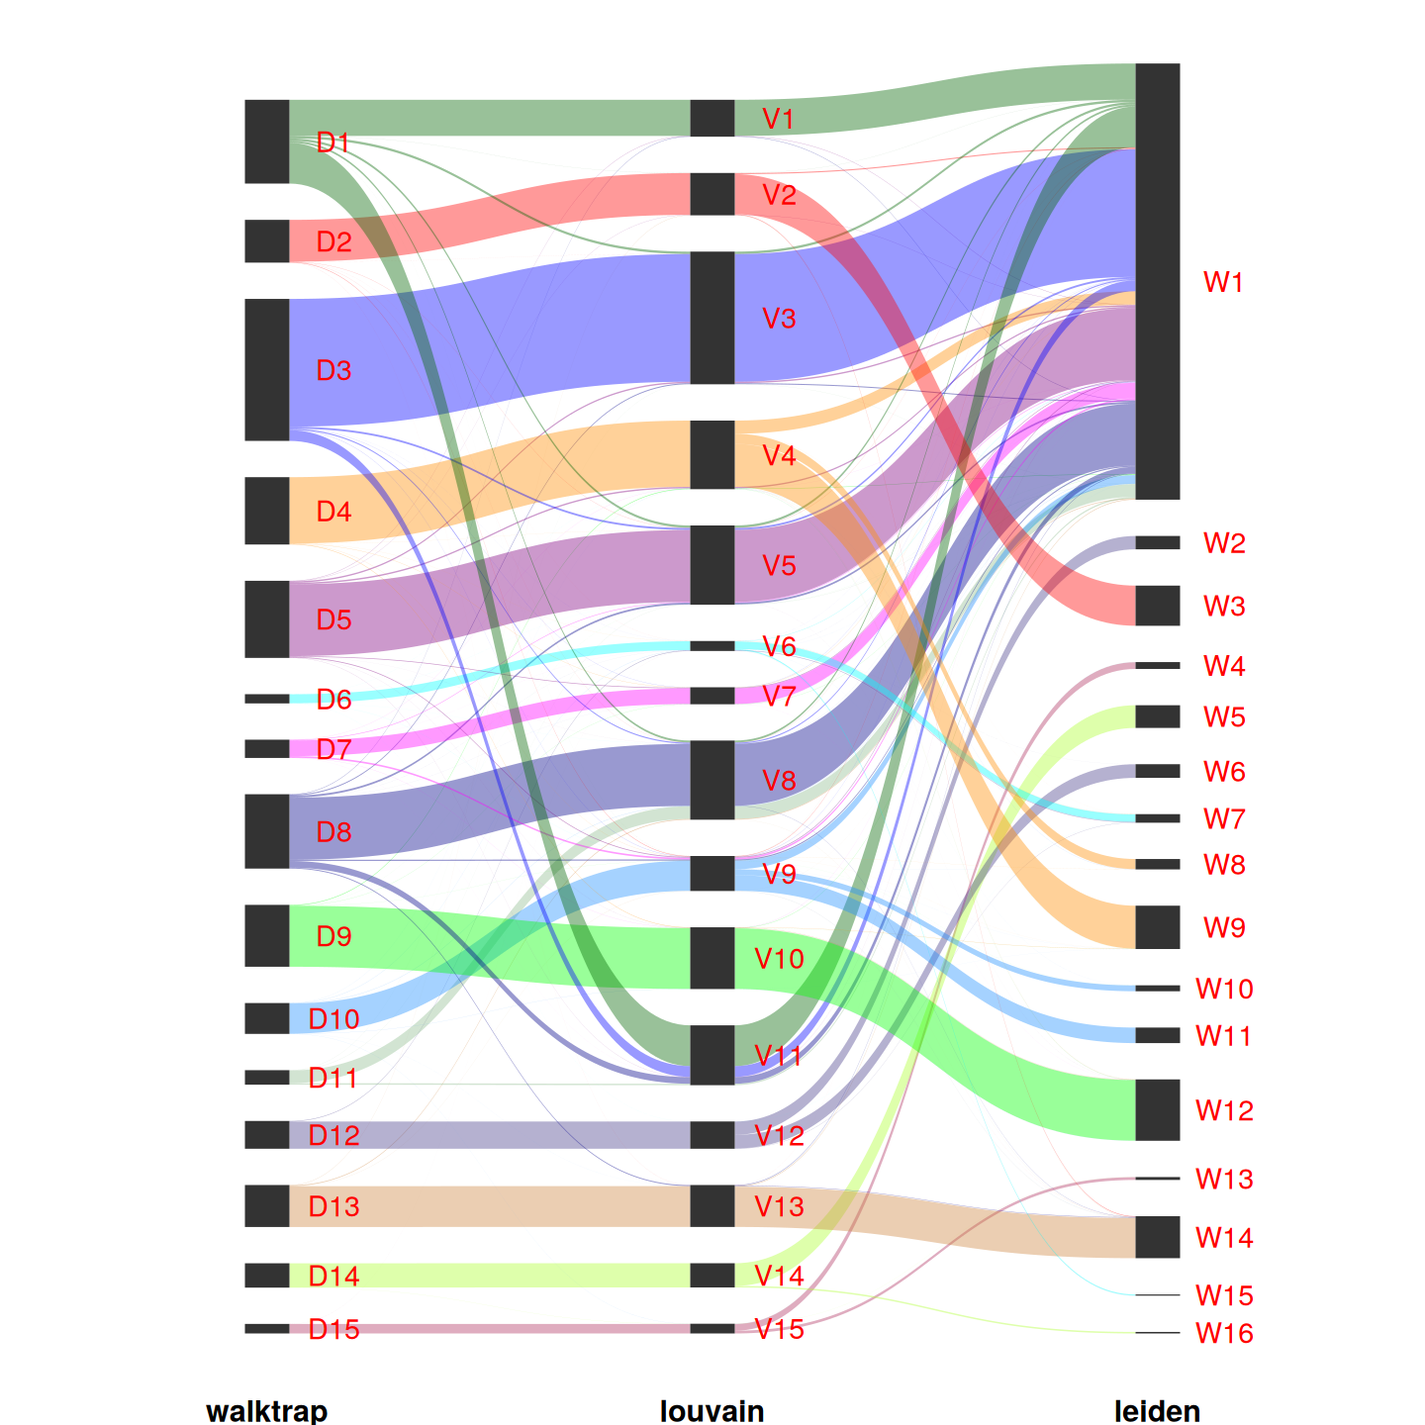
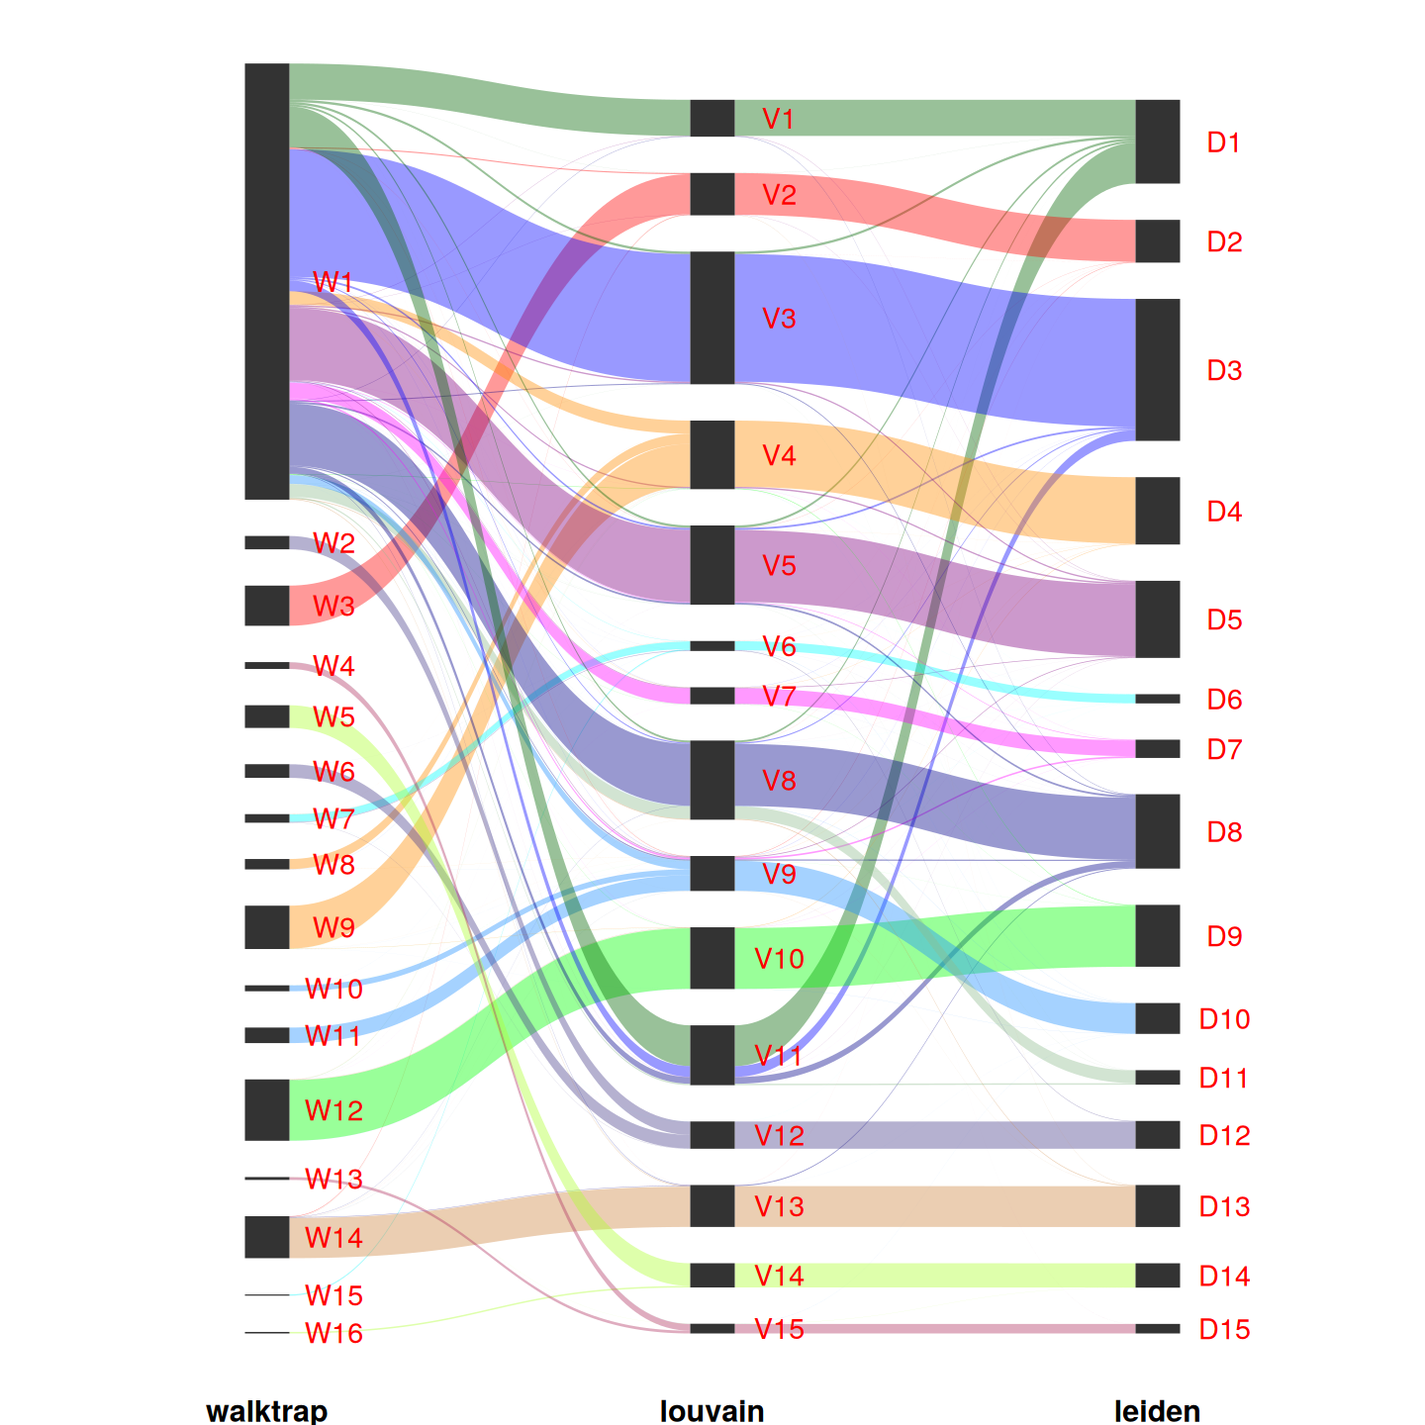
Fix labels in parallel sets and heading anchors incompatibility round brackets

diff --git a/notebooks/160k_Human_Control1_PBMC/Control1.md b/notebooks/160k_Human_Control1_PBMC/Control1.md
@@ -7,7 +7,7 @@
 3. [Quality filtering of cells](#3---Quality-filtering-of-cells)
 4. [Classification of cell cycle phase](#4---Classification-of-cell-cycle-phase)
 5. [Expression normalization](#5---Expression-normalization)
-6. [Feature (HVGs) selection](#6---Feature-(HVGs)-selection)
+6. [Feature selection](#6---Feature-selection)
 7. [Dimensionality reduction using HVG](#7---Dimensionality-reduction-using-HVG)
 8. [Cell type annotation](#8---Cell-type-annotation)
 9. [Cell clustering](#9---Cell-clustering)
@@ -1844,7 +1844,7 @@ Create a `dgCMatrix` logcounts matrix for faster computation in some steps.
 annot_l <- as(logcounts(cdScAnnot, withDimnames = TRUE), "dgCMatrix")
 ```
 
-# 6 - Feature (HVGs) selection
+# 6 - Feature selection
 
 We often use scRNA-seq data in exploratory analyses to characterize heterogeneity across cells. Procedures like clustering and dimensionality reduction compare cells based on their gene expression profiles. We want to select genes that contain useful information about the biology of the system while removing genes that contain random noise. 
 
@@ -3288,8 +3288,7 @@ tab <- table(walktrap = paste0("W", cdScAnnot$walktrap),
              leiden = paste0("D", cdScAnnot$leiden))
 
 tab <- gather_set_data(as.data.frame(tab), 1:3)
-tab$x <- as.factor(tab$x)
-levels(tab$x) <- c("walktrap","louvain","leiden")
+tab$x <- factor(tab$x, levels = c("walktrap","louvain","leiden"))
 
 tab$walktrap <- factor(tab$walktrap, levels = gtools::mixedsort(levels(tab$walktrap)))
 tab$louvain <- factor(tab$louvain, levels = gtools::mixedsort(levels(tab$louvain)))
@@ -4203,7 +4202,7 @@ print(paste("Number of available databases from Enrichr:", nrow(dbs)))
 #head(dbs)
 ```
 
-    [1] "Number of available databases from Enrichr: 216"
+    [1] "Number of available databases from Enrichr: 218"
 
 
 Change `dbsSel` to remove or include more gene-set libraries in the enrichment analysis.
@@ -4832,7 +4831,7 @@ sessionInfo()
     other attached packages:
      [1] ensembldb_2.30.0            AnnotationFilter_1.30.0     GenomicFeatures_1.58.0     
      [4] AnnotationDbi_1.68.0        lubridate_1.9.4             forcats_1.0.0              
-     [7] stringr_1.5.1               dplyr_1.1.4                 purrr_1.0.4                
+     [7] stringr_1.5.1               dplyr_1.1.4                 purrr_1.1.0                
     [10] readr_2.1.5                 tidyr_1.3.1                 tibble_3.3.0               
     [13] tidyverse_2.0.0             scRUtils_0.3.8              viridis_0.6.5              
     [16] viridisLite_0.4.2           SingleR_2.8.0               scran_1.34.0               
@@ -4841,7 +4840,7 @@ sessionInfo()
     [25] DropletUtils_1.26.0         SingleCellExperiment_1.28.1 SummarizedExperiment_1.36.0
     [28] Biobase_2.66.0              GenomicRanges_1.58.0        GenomeInfoDb_1.42.3        
     [31] IRanges_2.40.1              S4Vectors_0.44.0            MatrixGenerics_1.18.1      
-    [34] matrixStats_1.5.0           cowplot_1.1.3               bluster_1.16.0             
+    [34] matrixStats_1.5.0           cowplot_1.2.0               bluster_1.16.0             
     [37] BiocParallel_1.40.2         BiocNeighbors_2.0.1         AnnotationHub_3.14.0       
     [40] BiocFileCache_2.14.0        dbplyr_2.5.0                BiocGenerics_0.52.0        
     [43] kableExtra_1.4.0           
@@ -4849,7 +4848,7 @@ sessionInfo()
     loaded via a namespace (and not attached):
       [1] RcppAnnoy_0.0.22          BiocIO_1.16.0             pbdZMQ_0.3-14             bitops_1.0-9             
       [5] filelock_1.0.3            R.oo_1.27.1               polyclip_1.10-7           XML_3.99-0.18            
-      [9] httr2_1.1.2               lifecycle_1.0.4           scDblFinder_1.20.2        edgeR_4.4.2              
+      [9] httr2_1.2.1               lifecycle_1.0.4           scDblFinder_1.20.2        edgeR_4.4.2              
      [13] doParallel_1.0.17         lattice_0.22-7            MASS_7.3-65               alabaster.base_1.6.1     
      [17] magrittr_2.0.3            limma_3.62.2              rmarkdown_2.29            yaml_2.3.10              
      [21] metapod_1.14.0            DBI_1.2.3                 RColorBrewer_1.1-3        abind_1.4-8              
@@ -4861,21 +4860,21 @@ sessionInfo()
      [45] UCSC.utils_1.2.0          farver_2.1.2              ScaledMatrix_1.14.0       base64enc_0.1-3          
      [49] GenomicAlignments_1.42.0  jsonlite_2.0.0            GetoptLong_1.0.5          iterators_1.0.14         
      [53] systemfonts_1.2.3         foreach_1.5.2             tools_4.4.3               ggnewscale_0.5.2         
-     [57] ragg_1.4.0                Rcpp_1.0.14               glue_1.8.0                gridExtra_2.3            
+     [57] ragg_1.4.0                Rcpp_1.1.0                glue_1.8.0                gridExtra_2.3            
      [61] SparseArray_1.6.2         xfun_0.52                 IRdisplay_1.1             gypsum_1.2.0             
      [65] HDF5Array_1.34.0          withr_3.0.2               BiocManager_1.30.26       fastmap_1.2.0            
      [69] rhdf5filters_1.18.1       digest_0.6.37             rsvd_1.0.5                timechange_0.3.0         
      [73] R6_2.6.1                  mime_0.13                 textshaping_1.0.1         colorspace_2.1-1         
-     [77] Cairo_1.6-2               gtools_3.9.5              dichromat_2.0-0.1         RSQLite_2.4.1            
+     [77] Cairo_1.6-2               gtools_3.9.5              dichromat_2.0-0.1         RSQLite_2.4.2            
      [81] R.methodsS3_1.8.2         celldex_1.16.0            utf8_1.2.6                generics_0.1.4           
-     [85] data.table_1.17.6         rtracklayer_1.66.0        httr_1.4.7                S4Arrays_1.6.0           
+     [85] data.table_1.17.8         rtracklayer_1.66.0        httr_1.4.7                S4Arrays_1.6.0           
      [89] uwot_0.2.3                pkgconfig_2.0.3           gtable_0.3.6              blob_1.2.4               
      [93] ComplexHeatmap_2.22.0     XVector_0.46.0            htmltools_0.5.8.1         ProtGenerics_1.38.0      
      [97] clue_0.3-66               alabaster.matrix_1.6.1    png_0.1-8                 knitr_1.50               
     [101] rstudioapi_0.17.1         tzdb_0.5.0                rjson_0.2.23              uuid_1.2-1               
     [105] curl_6.4.0                repr_1.1.7                cachem_1.1.0              rhdf5_2.50.2             
     [109] GlobalOptions_0.1.2       BiocVersion_3.20.0        parallel_4.4.3            vipor_0.4.7              
-    [113] restfulr_0.0.15           alabaster.schemas_1.6.0   pillar_1.10.2             vctrs_0.6.5              
+    [113] restfulr_0.0.16           alabaster.schemas_1.6.0   pillar_1.11.0             vctrs_0.6.5              
     [117] BiocSingular_1.22.0       beachmat_2.22.0           cluster_2.1.8.1           beeswarm_0.4.0           
     [121] evaluate_1.0.4            Rsamtools_2.22.0          cli_3.6.5                 locfit_1.5-9.12          
     [125] compiler_4.4.3            rlang_1.1.6               crayon_1.5.3              labeling_0.4.3           

diff --git a/notebooks/160k_Human_Kidney_Cancer_PBMC/Kidney_Cancer.md b/notebooks/160k_Human_Kidney_Cancer_PBMC/Kidney_Cancer.md
@@ -7,7 +7,7 @@
 3. [Quality filtering of cells](#3---Quality-filtering-of-cells)
 4. [Classification of cell cycle phase](#4---Classification-of-cell-cycle-phase)
 5. [Expression normalization](#5---Expression-normalization)
-6. [Feature (HVGs) selection](#6---Feature-(HVGs)-selection)
+6. [Feature selection](#6---Feature-selection)
 7. [Dimensionality reduction using HVG](#7---Dimensionality-reduction-using-HVG)
 8. [Cell type annotation](#8---Cell-type-annotation)
 9. [Cell clustering](#9---Cell-clustering)
@@ -1844,7 +1844,7 @@ Create a `dgCMatrix` logcounts matrix for faster computation in some steps.
 annot_l <- as(logcounts(cdScAnnot, withDimnames = TRUE), "dgCMatrix")
 ```
 
-# 6 - Feature (HVGs) selection
+# 6 - Feature selection
 
 We often use scRNA-seq data in exploratory analyses to characterize heterogeneity across cells. Procedures like clustering and dimensionality reduction compare cells based on their gene expression profiles. We want to select genes that contain useful information about the biology of the system while removing genes that contain random noise. 
 
@@ -3285,8 +3285,7 @@ tab <- table(walktrap = paste0("W", cdScAnnot$walktrap),
              leiden = paste0("D", cdScAnnot$leiden))
 
 tab <- gather_set_data(as.data.frame(tab), 1:3)
-tab$x <- as.factor(tab$x)
-levels(tab$x) <- c("walktrap","louvain","leiden")
+tab$x <- factor(tab$x, levels = c("walktrap","louvain","leiden"))
 
 tab$walktrap <- factor(tab$walktrap, levels = gtools::mixedsort(levels(tab$walktrap)))
 tab$louvain <- factor(tab$louvain, levels = gtools::mixedsort(levels(tab$louvain)))
@@ -4194,7 +4193,7 @@ print(paste("Number of available databases from Enrichr:", nrow(dbs)))
 #head(dbs)
 ```
 
-    [1] "Number of available databases from Enrichr: 216"
+    [1] "Number of available databases from Enrichr: 218"
 
 
 Change `dbsSel` to remove or include more gene-set libraries in the enrichment analysis.
@@ -4788,7 +4787,7 @@ sessionInfo()
     other attached packages:
      [1] ensembldb_2.30.0            AnnotationFilter_1.30.0     GenomicFeatures_1.58.0     
      [4] AnnotationDbi_1.68.0        lubridate_1.9.4             forcats_1.0.0              
-     [7] stringr_1.5.1               dplyr_1.1.4                 purrr_1.0.4                
+     [7] stringr_1.5.1               dplyr_1.1.4                 purrr_1.1.0                
     [10] readr_2.1.5                 tidyr_1.3.1                 tibble_3.3.0               
     [13] tidyverse_2.0.0             scRUtils_0.3.8              viridis_0.6.5              
     [16] viridisLite_0.4.2           SingleR_2.8.0               scran_1.34.0               
@@ -4797,7 +4796,7 @@ sessionInfo()
     [25] DropletUtils_1.26.0         SingleCellExperiment_1.28.1 SummarizedExperiment_1.36.0
     [28] Biobase_2.66.0              GenomicRanges_1.58.0        GenomeInfoDb_1.42.3        
     [31] IRanges_2.40.1              S4Vectors_0.44.0            MatrixGenerics_1.18.1      
-    [34] matrixStats_1.5.0           cowplot_1.1.3               bluster_1.16.0             
+    [34] matrixStats_1.5.0           cowplot_1.2.0               bluster_1.16.0             
     [37] BiocParallel_1.40.2         BiocNeighbors_2.0.1         AnnotationHub_3.14.0       
     [40] BiocFileCache_2.14.0        dbplyr_2.5.0                BiocGenerics_0.52.0        
     [43] kableExtra_1.4.0           
@@ -4805,7 +4804,7 @@ sessionInfo()
     loaded via a namespace (and not attached):
       [1] RcppAnnoy_0.0.22          BiocIO_1.16.0             pbdZMQ_0.3-14             bitops_1.0-9             
       [5] filelock_1.0.3            R.oo_1.27.1               polyclip_1.10-7           XML_3.99-0.18            
-      [9] httr2_1.1.2               lifecycle_1.0.4           scDblFinder_1.20.2        edgeR_4.4.2              
+      [9] httr2_1.2.1               lifecycle_1.0.4           scDblFinder_1.20.2        edgeR_4.4.2              
      [13] doParallel_1.0.17         lattice_0.22-7            MASS_7.3-65               alabaster.base_1.6.1     
      [17] magrittr_2.0.3            limma_3.62.2              rmarkdown_2.29            yaml_2.3.10              
      [21] metapod_1.14.0            DBI_1.2.3                 RColorBrewer_1.1-3        abind_1.4-8              
@@ -4817,21 +4816,21 @@ sessionInfo()
      [45] UCSC.utils_1.2.0          farver_2.1.2              ScaledMatrix_1.14.0       base64enc_0.1-3          
      [49] GenomicAlignments_1.42.0  jsonlite_2.0.0            GetoptLong_1.0.5          iterators_1.0.14         
      [53] systemfonts_1.2.3         foreach_1.5.2             tools_4.4.3               ggnewscale_0.5.2         
-     [57] ragg_1.4.0                Rcpp_1.0.14               glue_1.8.0                gridExtra_2.3            
+     [57] ragg_1.4.0                Rcpp_1.1.0                glue_1.8.0                gridExtra_2.3            
      [61] SparseArray_1.6.2         xfun_0.52                 IRdisplay_1.1             gypsum_1.2.0             
      [65] HDF5Array_1.34.0          withr_3.0.2               BiocManager_1.30.26       fastmap_1.2.0            
      [69] rhdf5filters_1.18.1       digest_0.6.37             rsvd_1.0.5                timechange_0.3.0         
      [73] R6_2.6.1                  mime_0.13                 textshaping_1.0.1         colorspace_2.1-1         
-     [77] Cairo_1.6-2               gtools_3.9.5              dichromat_2.0-0.1         RSQLite_2.4.1            
+     [77] Cairo_1.6-2               gtools_3.9.5              dichromat_2.0-0.1         RSQLite_2.4.2            
      [81] R.methodsS3_1.8.2         celldex_1.16.0            utf8_1.2.6                generics_0.1.4           
-     [85] data.table_1.17.6         rtracklayer_1.66.0        httr_1.4.7                S4Arrays_1.6.0           
+     [85] data.table_1.17.8         rtracklayer_1.66.0        httr_1.4.7                S4Arrays_1.6.0           
      [89] uwot_0.2.3                pkgconfig_2.0.3           gtable_0.3.6              blob_1.2.4               
      [93] ComplexHeatmap_2.22.0     XVector_0.46.0            htmltools_0.5.8.1         ProtGenerics_1.38.0      
      [97] clue_0.3-66               alabaster.matrix_1.6.1    png_0.1-8                 knitr_1.50               
     [101] rstudioapi_0.17.1         tzdb_0.5.0                rjson_0.2.23              uuid_1.2-1               
     [105] curl_6.4.0                repr_1.1.7                cachem_1.1.0              rhdf5_2.50.2             
     [109] GlobalOptions_0.1.2       BiocVersion_3.20.0        parallel_4.4.3            vipor_0.4.7              
-    [113] restfulr_0.0.15           alabaster.schemas_1.6.0   pillar_1.10.2             vctrs_0.6.5              
+    [113] restfulr_0.0.16           alabaster.schemas_1.6.0   pillar_1.11.0             vctrs_0.6.5              
     [117] BiocSingular_1.22.0       beachmat_2.22.0           cluster_2.1.8.1           beeswarm_0.4.0           
     [121] evaluate_1.0.4            Rsamtools_2.22.0          cli_3.6.5                 locfit_1.5-9.12          
     [125] compiler_4.4.3            rlang_1.1.6               crayon_1.5.3              labeling_0.4.3           

diff --git a/notebooks/160k_Human_Lung_Cancer_PBMC/Lung_Cancer.md b/notebooks/160k_Human_Lung_Cancer_PBMC/Lung_Cancer.md
@@ -7,7 +7,7 @@
 3. [Quality filtering of cells](#3---Quality-filtering-of-cells)
 4. [Classification of cell cycle phase](#4---Classification-of-cell-cycle-phase)
 5. [Expression normalization](#5---Expression-normalization)
-6. [Feature (HVGs) selection](#6---Feature-(HVGs)-selection)
+6. [Feature selection](#6---Feature-selection)
 7. [Dimensionality reduction using HVG](#7---Dimensionality-reduction-using-HVG)
 8. [Cell type annotation](#8---Cell-type-annotation)
 9. [Cell clustering](#9---Cell-clustering)
@@ -1844,7 +1844,7 @@ Create a `dgCMatrix` logcounts matrix for faster computation in some steps.
 annot_l <- as(logcounts(cdScAnnot, withDimnames = TRUE), "dgCMatrix")
 ```
 
-# 6 - Feature (HVGs) selection
+# 6 - Feature selection
 
 We often use scRNA-seq data in exploratory analyses to characterize heterogeneity across cells. Procedures like clustering and dimensionality reduction compare cells based on their gene expression profiles. We want to select genes that contain useful information about the biology of the system while removing genes that contain random noise. 
 
@@ -3274,8 +3274,7 @@ tab <- table(walktrap = paste0("W", cdScAnnot$walktrap),
              leiden = paste0("D", cdScAnnot$leiden))
 
 tab <- gather_set_data(as.data.frame(tab), 1:3)
-tab$x <- as.factor(tab$x)
-levels(tab$x) <- c("walktrap","louvain","leiden")
+tab$x <- factor(tab$x, levels = c("walktrap","louvain","leiden"))
 
 tab$walktrap <- factor(tab$walktrap, levels = gtools::mixedsort(levels(tab$walktrap)))
 tab$louvain <- factor(tab$louvain, levels = gtools::mixedsort(levels(tab$louvain)))
@@ -4179,7 +4178,7 @@ print(paste("Number of available databases from Enrichr:", nrow(dbs)))
 #head(dbs)
 ```
 
-    [1] "Number of available databases from Enrichr: 216"
+    [1] "Number of available databases from Enrichr: 218"
 
 
 Change `dbsSel` to remove or include more gene-set libraries in the enrichment analysis.
@@ -4783,7 +4782,7 @@ sessionInfo()
     other attached packages:
      [1] ensembldb_2.30.0            AnnotationFilter_1.30.0     GenomicFeatures_1.58.0     
      [4] AnnotationDbi_1.68.0        lubridate_1.9.4             forcats_1.0.0              
-     [7] stringr_1.5.1               dplyr_1.1.4                 purrr_1.0.4                
+     [7] stringr_1.5.1               dplyr_1.1.4                 purrr_1.1.0                
     [10] readr_2.1.5                 tidyr_1.3.1                 tibble_3.3.0               
     [13] tidyverse_2.0.0             scRUtils_0.3.8              viridis_0.6.5              
     [16] viridisLite_0.4.2           SingleR_2.8.0               scran_1.34.0               
@@ -4792,7 +4791,7 @@ sessionInfo()
     [25] DropletUtils_1.26.0         SingleCellExperiment_1.28.1 SummarizedExperiment_1.36.0
     [28] Biobase_2.66.0              GenomicRanges_1.58.0        GenomeInfoDb_1.42.3        
     [31] IRanges_2.40.1              S4Vectors_0.44.0            MatrixGenerics_1.18.1      
-    [34] matrixStats_1.5.0           cowplot_1.1.3               bluster_1.16.0             
+    [34] matrixStats_1.5.0           cowplot_1.2.0               bluster_1.16.0             
     [37] BiocParallel_1.40.2         BiocNeighbors_2.0.1         AnnotationHub_3.14.0       
     [40] BiocFileCache_2.14.0        dbplyr_2.5.0                BiocGenerics_0.52.0        
     [43] kableExtra_1.4.0           
@@ -4800,7 +4799,7 @@ sessionInfo()
     loaded via a namespace (and not attached):
       [1] RcppAnnoy_0.0.22          BiocIO_1.16.0             pbdZMQ_0.3-14             bitops_1.0-9             
       [5] filelock_1.0.3            R.oo_1.27.1               polyclip_1.10-7           XML_3.99-0.18            
-      [9] httr2_1.1.2               lifecycle_1.0.4           scDblFinder_1.20.2        edgeR_4.4.2              
+      [9] httr2_1.2.1               lifecycle_1.0.4           scDblFinder_1.20.2        edgeR_4.4.2              
      [13] doParallel_1.0.17         lattice_0.22-7            MASS_7.3-65               alabaster.base_1.6.1     
      [17] magrittr_2.0.3            limma_3.62.2              rmarkdown_2.29            yaml_2.3.10              
      [21] metapod_1.14.0            DBI_1.2.3                 RColorBrewer_1.1-3        abind_1.4-8              
@@ -4812,21 +4811,21 @@ sessionInfo()
      [45] UCSC.utils_1.2.0          farver_2.1.2              ScaledMatrix_1.14.0       base64enc_0.1-3          
      [49] GenomicAlignments_1.42.0  jsonlite_2.0.0            GetoptLong_1.0.5          iterators_1.0.14         
      [53] systemfonts_1.2.3         foreach_1.5.2             tools_4.4.3               ggnewscale_0.5.2         
-     [57] ragg_1.4.0                Rcpp_1.0.14               glue_1.8.0                gridExtra_2.3            
+     [57] ragg_1.4.0                Rcpp_1.1.0                glue_1.8.0                gridExtra_2.3            
      [61] SparseArray_1.6.2         xfun_0.52                 IRdisplay_1.1             gypsum_1.2.0             
      [65] HDF5Array_1.34.0          withr_3.0.2               BiocManager_1.30.26       fastmap_1.2.0            
      [69] rhdf5filters_1.18.1       digest_0.6.37             rsvd_1.0.5                timechange_0.3.0         
      [73] R6_2.6.1                  mime_0.13                 textshaping_1.0.1         colorspace_2.1-1         
-     [77] Cairo_1.6-2               gtools_3.9.5              dichromat_2.0-0.1         RSQLite_2.4.1            
+     [77] Cairo_1.6-2               gtools_3.9.5              dichromat_2.0-0.1         RSQLite_2.4.2            
      [81] R.methodsS3_1.8.2         celldex_1.16.0            utf8_1.2.6                generics_0.1.4           
-     [85] data.table_1.17.6         rtracklayer_1.66.0        httr_1.4.7                S4Arrays_1.6.0           
+     [85] data.table_1.17.8         rtracklayer_1.66.0        httr_1.4.7                S4Arrays_1.6.0           
      [89] uwot_0.2.3                pkgconfig_2.0.3           gtable_0.3.6              blob_1.2.4               
      [93] ComplexHeatmap_2.22.0     XVector_0.46.0            htmltools_0.5.8.1         ProtGenerics_1.38.0      
      [97] clue_0.3-66               alabaster.matrix_1.6.1    png_0.1-8                 knitr_1.50               
     [101] rstudioapi_0.17.1         tzdb_0.5.0                rjson_0.2.23              uuid_1.2-1               
     [105] curl_6.4.0                repr_1.1.7                cachem_1.1.0              rhdf5_2.50.2             
     [109] GlobalOptions_0.1.2       BiocVersion_3.20.0        parallel_4.4.3            vipor_0.4.7              
-    [113] restfulr_0.0.15           alabaster.schemas_1.6.0   pillar_1.10.2             vctrs_0.6.5              
+    [113] restfulr_0.0.16           alabaster.schemas_1.6.0   pillar_1.11.0             vctrs_0.6.5              
     [117] BiocSingular_1.22.0       beachmat_2.22.0           cluster_2.1.8.1           beeswarm_0.4.0           
     [121] evaluate_1.0.4            Rsamtools_2.22.0          cli_3.6.5                 locfit_1.5-9.12          
     [125] compiler_4.4.3            rlang_1.1.6               crayon_1.5.3              labeling_0.4.3           
